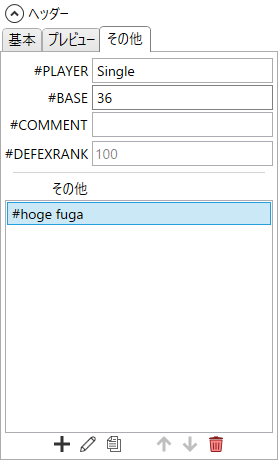
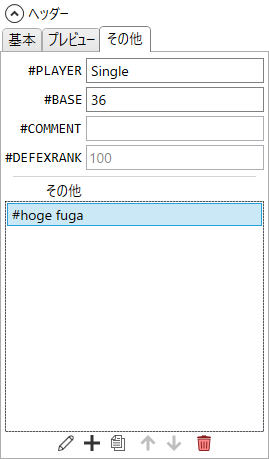
v0.7.29

diff --git a/docs/bms_header.html b/docs/bms_header.html
@@ -19,35 +19,36 @@
                 要素をクリックすると説明が表示されます。
                 <div class="left-panel" style="grid-template-columns: auto auto auto 1fr;">
                     <div class="image-map" src="img/bms_header.png" maps="
-                        1, 56,276, 29, bms/header_genre.html;
-                        1, 85,276, 58, bms/header_title.html;
-                        1,143,276, 58, bms/header_artist.html;
-                        1,210,276, 29, bms/header_bpm.html;
-                        1,239,276, 29, bms/header_playlevel.html;
-                        1,268,276, 58, bms/header_difficulty.html;
-                        1,326,276, 29, bms/header_total.html;
-                        1,355,276, 29, bms/header_rank.html;
-                        1,393,276, 29, bms/header_lnobj.html;
-                        1,422,276, 29, bms/header_lnmode.html;">
+                        1, 56,267, 29, bms/header_genre.html;
+                        1, 85,267, 58, bms/header_title.html;
+                        1,143,267, 58, bms/header_artist.html;
+                        1,210,267, 29, bms/header_bpm.html;
+                        1,239,267, 29, bms/header_playlevel.html;
+                        1,268,267, 58, bms/header_difficulty.html;
+                        1,326,184, 29, bms/header_total.html;
+                      184,326, 83, 29, bms/header_totalAuto.html;
+                        1,355,267, 29, bms/header_rank.html;
+                        1,393,267, 29, bms/header_lnobj.html;
+                        1,422,267, 29, bms/header_lnmode.html;">
                     </div>
                     <div class="image-map" src="img/bms_header_2.png" maps="
-                        1, 56,276, 29, bms/header_preview.html;
-                        1, 94,276,115, bms/header_stagefile.html;
-                        1,218,276,114, bms/header_banner.html;
-                        1,341,276,114, bms/header_backbmp.html;">
+                        1, 56,267, 29, bms/header_preview.html;
+                        1, 94,267,115, bms/header_stagefile.html;
+                        1,218,267,114, bms/header_banner.html;
+                        1,341,267,114, bms/header_backbmp.html;">
                     </div>
                     <div class="image-map" src="img/bms_header_3.png" maps="
-                          1, 56,276, 29, bms/header_player.html;
-                          1, 83,276, 29, bms/header_base.html;
-                          1,110,276, 29, bms/header_comment.html;
-                          1,139,276, 29, bms/header_defexrank.html;
-                          1,175,276,258, bms/header_other.html, center;
-                         49,433, 26, 22, bms/header_other_add.html;
-                         75,433, 26, 22, bms/header_other_edit.html;
-                        101,433, 26, 22, common/list_duplicate.html;
-                        151,433, 26, 22, common/list_moveUp.html;
-                        177,433, 26, 22, common/list_moveDown.html;
-                        203,433, 26, 22, common/list_delete.html;">
+                          1, 56,267, 29, bms/header_player.html;
+                          1, 85,267, 29, bms/header_base.html;
+                          1,114,267, 29, bms/header_comment.html;
+                          1,143,267, 29, bms/header_defexrank.html;
+                          1,179,267,254, bms/header_other.html, center;
+                         53,433, 26, 22, bms/header_other_add.html;
+                         79,433, 26, 22, bms/header_other_edit.html;
+                        105,433, 26, 22, common/list_duplicate.html;
+                        135,433, 26, 22, common/list_moveUp.html;
+                        161,433, 26, 22, common/list_moveDown.html;
+                        191,433, 26, 22, common/list_delete.html;">
                     </div>
                 </div>
                 <ul>
@@ -77,6 +78,36 @@
                     </li>
                     <li>
                         コンボボックスで指定するヘッダー(<span class="script">#RANK</span>など)は、コンボボックスの上で<b>マウスホイールを回す</b>ことでも変更できます。
+                    </li>
+                </ul>
+            </div>
+            <div class="stack" id="expression">
+                <h3><span class="script">#TOTAL</span>自動入力の数式の詳細</h3>
+                <ul>
+                    <li>
+                        文字列や記号列はスペースで区切ります。
+                    </li>
+                    <li>
+                        式には以下の文字列や記号列が使用可能です。
+                        <ul>
+                            <div class="common" src="common/expression.html"></div>
+                            <li>
+                                変数記号
+                                <ul>
+                                    <li>
+                                        以下の文字は計算時に、それぞれ右側で示された値に置き換わります。
+                                        <ul>
+                                            <li>
+                                                <b>大文字と小文字は区別されます</b>。
+                                            </li>
+                                        </ul>
+                                    </li>
+                                    <li>
+                                        <span class="script">n</span>: 演奏レーンにある通常ノートの総数
+                                    </li>
+                                </ul>
+                            </li>
+                        </ul>
                     </li>
                 </ul>
             </div>

diff --git a/docs/common/expression.html b/docs/common/expression.html
@@ -1,0 +1,77 @@
+<li>
+    定数値(整数、小数)
+</li>
+<li>
+    四則演算子(<span class="script">+</span><span class="script">-</span><span class="script">*</span><span class="script">/</span><span class="script">%</span>)
+</li>
+<li>
+    条件演算子
+    <ul>
+        <li>
+            以下の表現は計算時に、それぞれ右側で示された値に置き換わります。
+        </li>
+        <li>
+            <span class="script">x & y</span>: (論理積)<span class="script">x</span>が<span class="script">0</span>なら<span class="script">0</span>、そうでなければ<span class="script">y</span>
+        </li>
+        <li>
+            <span class="script">x | y</span>: (論理和)<span class="script">x</span>が<span class="script">0</span>なら<span class="script">y</span>、そうでなければ<span class="script">x</span>
+        </li>
+        <li>
+            <span class="script">x ^ y</span>: (排他的論理和)<span class="script">x</span>が<span class="script">0</span>なら<span class="script">y</span>、<span class="script">y</span>が<span class="script">0</span>なら<span class="script">x</span>、それ以外の場合は<span class="script">0</span>
+        </li>
+        <li>
+            <span class="script">[条件] ? x : y</span>: (条件分岐)<span class="script">[条件]</span>が<span class="script">0</span>以外なら<span class="script">x</span>、そうでなければ<span class="script">y</span>
+        </li>
+        <li>
+            <span class="script">x = y</span>: <span class="script">x</span>と<span class="script">y</span>が等しい (等しければ<span class="script">1</span>、そうでなければ<span class="script">0</span>)
+        </li>
+        <li>
+            <span class="script">x != y</span>: <span class="script">x</span>と<span class="script">y</span>が等しくない
+        </li>
+        <li>
+            <span class="script">x &lt;= y</span>: <span class="script">x</span>が<span class="script">y</span>以下
+            <ul>
+                <li>
+                    <span class="script">x &lt; y</span><span class="script">x &gt;= y</span><span class="script">x &gt; y</span>も同様。
+                </li>
+            </ul>
+        </li>
+    </ul>
+</li>
+<li>
+    関数
+    <ul>
+        <li>
+            以下の表現は計算時に、それぞれ右側で示された値に置き換わります。
+            <ul>
+                <li>
+                    <b>大文字と小文字は区別されます</b>。下記の関数は<b>全て小文字</b>で記述する必要があります。
+                </li>
+                <li>
+                    <b>括弧も含めて</b>記述する必要があります。
+                </li>
+                <li>
+                    括弧内の要素(引数)は<span class="script">,</span>で区切り、その数(<span class="script">max()</span>なら<b>2個</b>)は関数ごとに正確に一致しなければなりません。
+                </li>
+            </ul>
+        </li>
+        <li>
+            <span class="script">max(x, y)</span>: <span class="script">x</span>と<span class="script">y</span>の大きい方
+        </li>
+        <li>
+            <span class="script">min(x, y)</span>: <span class="script">x</span>と<span class="script">y</span>の小さい方
+        </li>
+        <li>
+            <span class="script">floor(x)</span>: <span class="script">x</span>以下の最大の整数
+        </li>
+        <li>
+            <span class="script">ceil(x)</span>: <span class="script">x</span>以上の最小の整数
+        </li>
+        <li>
+            <span class="script">trunc(x)</span>: <span class="script">x</span>の整数部分
+        </li>
+        <li>
+            <span class="script">round(x, y)</span>: <span class="script">x</span>を小数点以下<span class="script">y</span>桁で丸めたもの
+        </li>
+    </ul>
+</li>

diff --git a/docs/bms_barSplit.html b/docs/bms_barSplit.html
@@ -38,24 +38,42 @@
                 <h3>「式」の詳細</h3>
                 <ul>
                     <li>
-                        式には以下の記号が使用可能です。
+                        文字列や記号列はスペースで区切ります。
+                    </li>
+                    <li>
+                        式には以下の文字列や記号列が使用可能です。
                         <ul>
+                            <div class="common" src="common/expression.html"></div>
                             <li>
-                                定数値(整数、小数、分数)
-                            </li>
-                            <li>
-                                四則演算記号(<span class="script">+ - * / %</span>)
-                            </li>
-                            <li>
-                                変数記号(6種類)
-                                <div class="script">
-                                    l - 元々の小節長<br>
-                                    f - 「1本目の位置」の値<br>
-                                    m - 「最大分割数」の値<br>
-                                    i - 現在の小節線番号(※下記参照)<br>
-                                    p - 1つ前の小節線の位置(初期値は f と同じ)<br>
-                                    q - 2つ前の小節線の位置(初期値は 0)<br>
-                                </div>
+                                変数記号
+                                <ul>
+                                    <li>
+                                        以下の文字は計算時に、それぞれ右側で示された値に置き換わります。
+                                        <ul>
+                                            <li>
+                                                <b>大文字と小文字は区別されます</b>。
+                                            </li>
+                                        </ul>
+                                    </li>
+                                    <li>
+                                        <span class="script">l</span>: 元々の小節長
+                                    </li>
+                                    <li>
+                                        <span class="script">f</span>: 「1本目の位置」の値
+                                    </li>
+                                    <li>
+                                        <span class="script">m</span>: 「最大分割数」の値
+                                    </li>
+                                    <li>
+                                        <span class="script">i</span>: 現在の小節線番号(※下記参照)
+                                    </li>
+                                    <li>
+                                        <span class="script">p</span>: 1つ前の小節線の位置(初期値は f と同じ)
+                                    </li>
+                                    <li>
+                                        <span class="script">q</span>: 2つ前の小節線の位置(初期値は 0)
+                                    </li>
+                                </ul>
                             </li>
                         </ul>
                     </li>

diff --git a/docs/bms/header_totalAuto.html b/docs/bms/header_totalAuto.html
@@ -1,0 +1,44 @@
+<h3>#TOTALの自動入力</h3>
+<ul>
+    <li>
+        譜面のノート数を使い、計算式に基づいて<span class="script">#TOTAL</span>の値を自動入力します。
+    </li>
+    <li>
+        <img class="icon16" src="img/icons/Config.png"/>を押すと計算式を確認/編集できます。<br>
+        <img src="img/bms_header_total.png"/>
+        <ul>
+            <li>
+                詳細は下記「<span class="script">#TOTAL</span>自動入力の数式の詳細」を確認してください。
+            </li>
+            <li>
+                テキストボックスの入力内容はアプリ設定に記憶され、<br>
+                起動するたびに前回の入力内容が復元されます。
+            </li>
+            <li>
+                テキストボックスの下のボタンを押すとプリセットが入力されます。
+                <ul>
+                    <li>
+                        Beat: <span class="script">floor(max(260, 760.5 * n / (n + 650)))</span>
+                    </li>
+                    <li>
+                        Popn: <span class="script">floor(n &lt;= 0 ? 0 : n * floor(3072 / n) / 10.24)</span>
+                    </li>
+                </ul>
+            </li>
+            <li>
+                <img class="icon16" src="img/icons/Plus.png"/>を押すと入力中の数式をプリセットとして保存します。
+            </li>
+            <li>
+                保存済みのプリセットは下に一覧表示されます。
+                <ul>
+                    <li>
+                        <img class="icon16" src="img/icons/Upload.png"/>を押すとそのプリセットを適用します。
+                    </li>
+                    <li>
+                        <img class="icon16" src="img/icons/Delete.png"/>を押すとそのプリセットを削除します。
+                    </li>
+                </ul>
+            </li>
+        </ul>
+    </li>
+</ul>

diff --git a/docs/history.html b/docs/history.html
@@ -10,6 +10,33 @@
         <div class="content">
             <ul>
                 <li>
+                    <details id="0_7_29">
+                        <summary class="a-like">Version 0.7.29 (2025/09/02)</summary>
+                        <ul>
+                            <li>
+                                仕様変更
+                                <ul>
+                                    <li>
+                                        <a href="bms_header.html">BMSモード/ヘッダー</a>において、<span class="script">#TOTAL</span>の自動入力の計算式を変更できるようにしました。
+                                    </li>
+                                    <li>
+                                        <a href="bms_barSplit.html">BMSモード/小節の分割</a>において、数式が不正な場合にエラーメッセージを表示するようにしました。
+                                    </li>
+                                </ul>
+                            </li>
+                            <li>
+                                不具合修正
+                                <ul>
+                                    <li>
+                                        <a href="bms_info.html">BMSモード/情報</a>において、譜面の総ノート数が正しくカウントされない不具合を修正しました。
+                                    </li>
+                                </ul>
+                            </li>
+                        </ul>
+                        <br>
+                    </details>
+                </li>
+                <li>
                     <details id="0_7_28">
                         <summary class="a-like">Version 0.7.28 (2025/08/31)</summary>
                         <ul>

diff --git a/docs/bms/header_total.html b/docs/bms/header_total.html
@@ -36,25 +36,6 @@
             <li>
                 自分でその譜面をテストプレイするか、オートプレイでゲージ推移を眺めて調整しましょう。
             </li>
-            <li>
-                「自動」ボタンを押すと、譜面のノート数を使い、以下の計算式に従って値を自動入力します。
-                <div class="script">
-                    TOTAL = 760.5×NOTES÷(NOTES+650)
-                </div>
-                <ul>
-                    <li>
-                        小数点以下切り捨て
-                    </li>
-                    <li>
-                        計算結果が<span class="script">260</span>以下の場合は<span class="script">260</span>にする
-                    </li>
-                    <li>
-                        この式は主に<b>2000ノーツ以下</b>の譜面に対してはある程度うまく働きますが、<br>
-                        それを大きく超える場合はノート数の増加に対して<span class="script">TOTAL</span>の伸びが鈍すぎるため、<br>
-                        発狂譜面を作る際は利用しないほうがいいです。
-                    </li>
-                </ul>
-            </li>
         </ul>
     </li>
 </ul>

diff --git a/docs/bms/header_playlevel.html b/docs/bms/header_playlevel.html
@@ -21,17 +21,14 @@
         普通は<span class="script">0</span>以上の整数値を指定します。
         <ul>
             <li>
-                一部のBMSプレイヤーは非数値型のプレイレベルに対応していますが、<br>
-                このアプリでは整数値しか指定できないようになっています。
-            </li>
-            <li>
-                <b>表示はできます</b>が、値を数値以外に変更することはできません。<br>
+                このアプリでは整数でない値も設定できますが、<br>
+                非数値の<span class="script">#PLAYLEVEL</span>は<b>ごく少数の本体しか対応していません。</b><br>
                 <img src="img/bms_header_karaage.png">
             </li>
         </ul>
     </li>
     <li>
         一般に、レベル<span class="script">0</span>は「難度判定不能」を意味し、<br>
-        <b><span class="script">1</span>よりも簡単という意味にはなりません。</b>
+        <b><span class="script">1</span>よりも簡単という意味ではありません。</b>
     </li>
 </ul>

diff --git a/docs/bms/header_base.html b/docs/bms/header_base.html
@@ -7,6 +7,7 @@
         通常は<span class="script">36</span>(ZZ表記)です。
     </li>
     <li>
-        数値を直接変更することはできません。この部分をクリックすると<a href="bms_defSort.html">定義の整列ウィンドウ</a>が開きます。
+        数値を直接変更することはできません。<br>
+        この部分をクリックすると<a href="bms_defSort.html">定義の整列ウィンドウ</a>が開きます。
     </li>
 </ul>

diff --git a/docs/index.html b/docs/index.html
@@ -11,7 +11,7 @@
             <div class="stack">
                 <a href="https://github.com/Kuroki-Narumi/BmsMaker3-Manual/releases" target="_blank">
                     <img src="img/logo.png" style="max-width: 100%;"/><br>
-                    Version 0.7.28<br>
+                    Version 0.7.29<br>
                 </a>
                 オールインワン型BMS制作補助ツール<br>
             </div>
